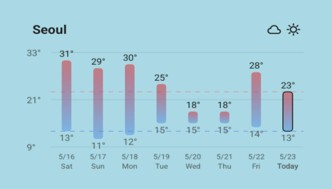
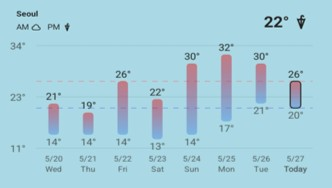
v1.0.77

diff --git a/meteal/index.html b/meteal/index.html
@@ -44,7 +44,7 @@
     <!-- ── Hero ── -->
     <section class="hero" id="hero">
       <div class="hero-inner">
-        <div class="hero-badge" data-i18n="hero.badge">v1.0.72 · iOS & Android</div>
+        <div class="hero-badge" data-i18n="hero.badge">v1.0.77 · iOS & Android</div>
         <img src="assets/icon.png" alt="Meteal 앱 아이콘" class="hero-icon">
         <h1 data-i18n="hero.tagline">Compare only the weather you need, at a glance</h1>
         <p class="hero-subtitle" data-i18n="hero.subtitle">A simple weather app to intuitively check today's weather with recent feels-like temperature changes, and quickly compare weather across multiple regions.</p>
@@ -102,6 +102,12 @@
           <div class="feature-icon">🌐</div>
           <h3 data-i18n="features.multilang.title">다국어 지원</h3>
           <p data-i18n="features.multilang.desc">한국어, English, Deutsch, Français, Italiano, 日本語, 简体中文 등 7개 언어를 지원합니다.</p>
+        </div>
+
+        <div class="feature-card">
+          <div class="feature-icon">🎨</div>
+          <h3 data-i18n="features.theme.title">사용자 테마</h3>
+          <p data-i18n="features.theme.desc">앱 색상을 직접 조정해 나에게 맞는 화면 분위기로 사용할 수 있습니다.</p>
         </div>
 
         <div class="feature-card">

diff --git a/meteal/license.html b/meteal/license.html
@@ -59,7 +59,7 @@
           <img src="assets/icon.png" alt="Meteal 아이콘" style="width:64px;height:64px;border-radius:14px;box-shadow:var(--shadow-card);">
           <div>
             <div style="font-size:1.3rem;font-weight:800;color:var(--color-text);">Meteal</div>
-            <div style="font-size:0.85rem;color:var(--color-text-muted);">v1.0.72</div>
+            <div style="font-size:0.85rem;color:var(--color-text-muted);">v1.0.77</div>
           </div>
         </div>
 
@@ -71,6 +71,7 @@
           <li data-i18n="license.feature_feels_like">최근 체감온도 변화 비교</li>
           <li data-i18n="license.feature_regions">여러 지역 저장 및 비교</li>
           <li data-i18n="license.feature_widget">날씨 위젯 지원</li>
+          <li data-i18n="license.feature_theme">사용자 테마 지원</li>
           <li data-i18n="license.feature_multilang">다국어 지원</li>
           <li data-i18n="license.feature_ui">간단하고 직관적인 UI</li>
         </ul>
